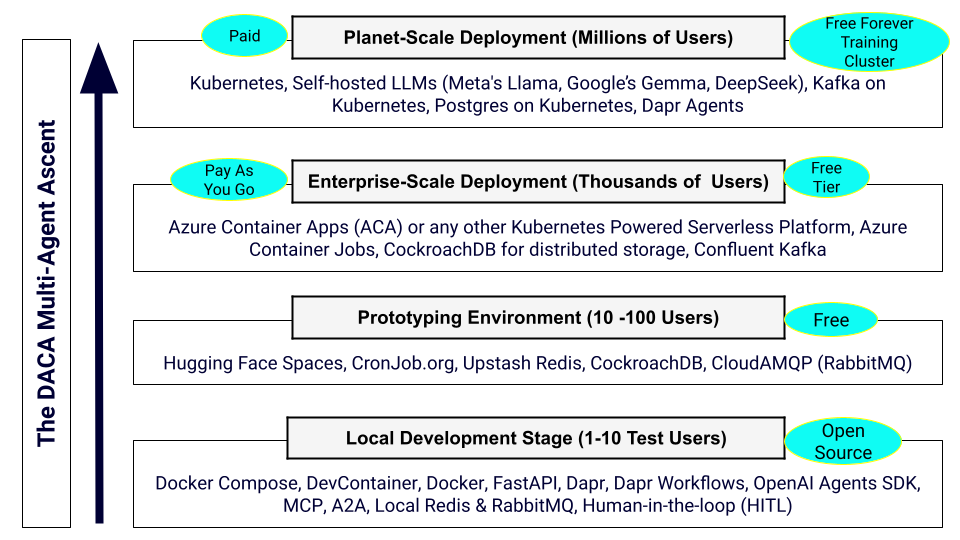
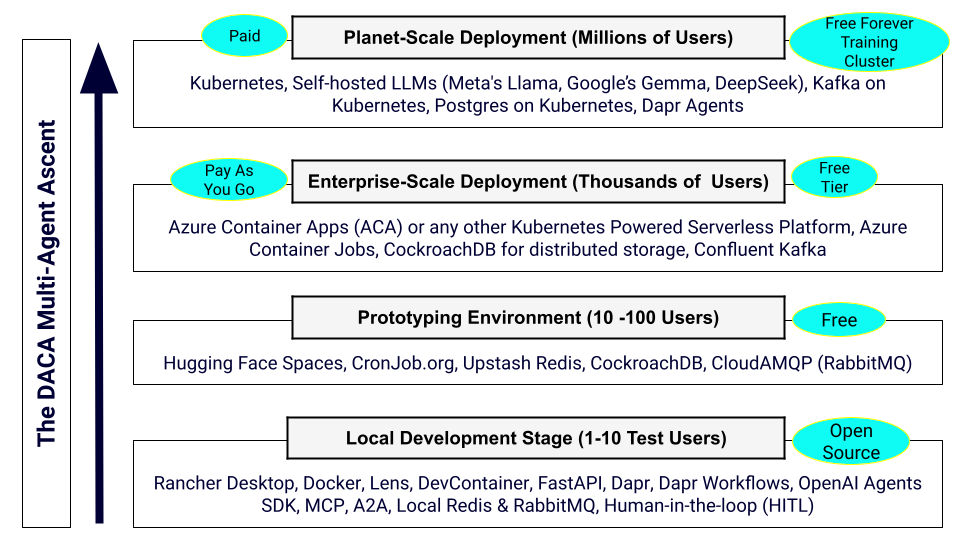
rancher

diff --git a/comprehensive_guide_daca.md b/comprehensive_guide_daca.md
@@ -270,7 +270,7 @@ DACA’s “ascent” refers to its progressive deployment pipeline, scaling fro
 
 - **Goal**: Rapid iteration with production-like features.
 - **Setup**:
-  - **Docker Compose**: Runs the agent app, Dapr sidecar, A2A endpoints and local services.
+  - **Docker Compose (or Rancher Desktop with Lens)**: Runs the agent app, Dapr sidecar, A2A endpoints and local services.
     ```yaml
     version: "3.8"
     services:
